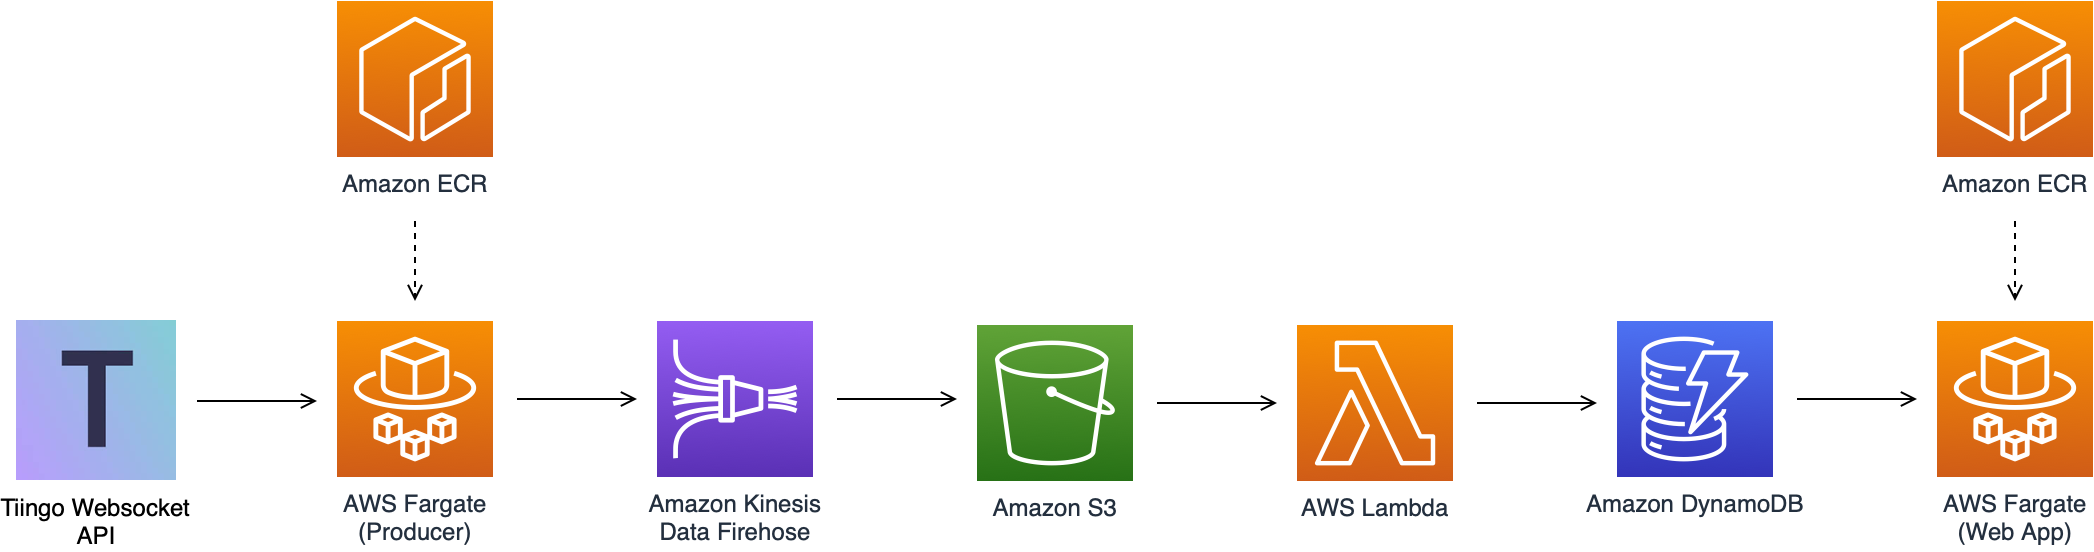
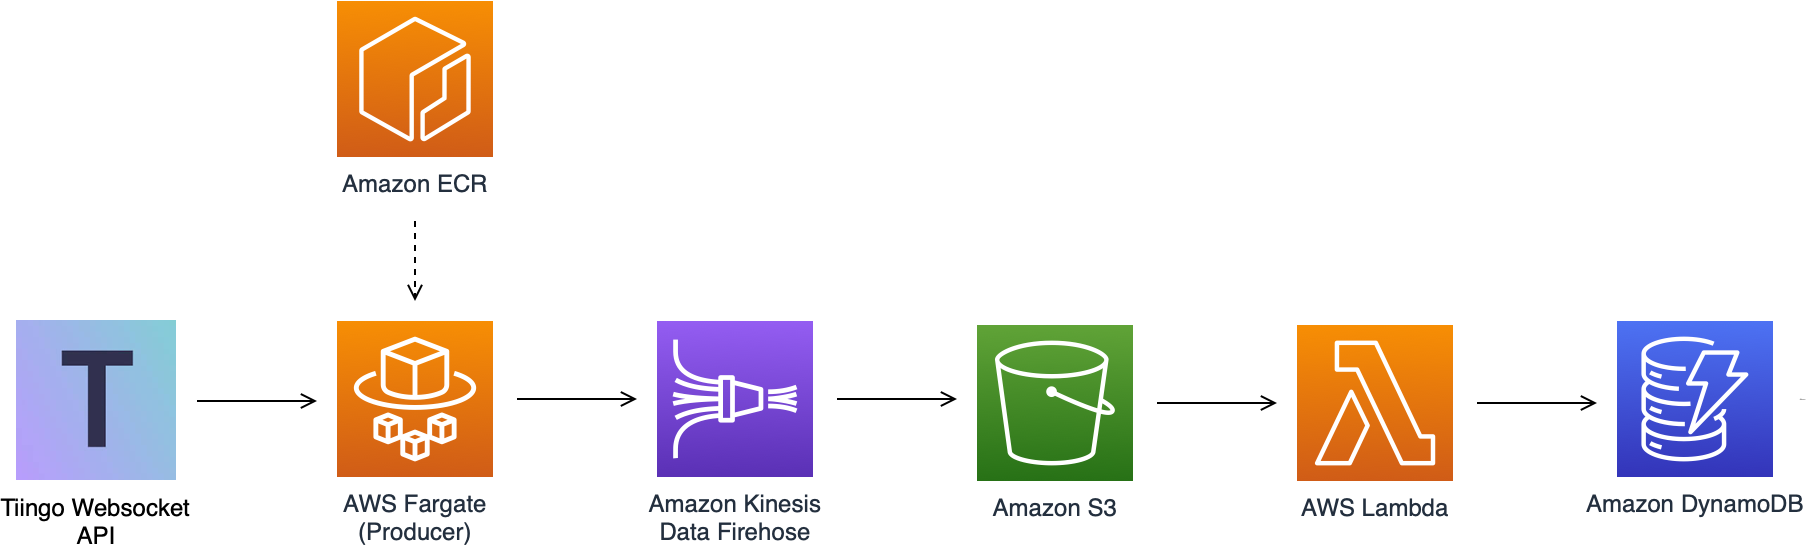
Update post.

diff --git a/site/app/content/posts/aws_crypto_streaming.md b/site/app/content/posts/aws_crypto_streaming.md
@@ -20,3 +20,22 @@ tags = [
 ## Overview
 
 Now, I make it no secret that I think crypto currencies possess none of the fundamental characteristics of real currencies and currently serve little purpose beyond acting as speculative (and extremely volatile), investments with no discernable underlying value. That being said, one thing that is very useful about crypto currencies is the wealth of (often free), real-time APIs that exist to stream crypto trading data and we're going to make use of one such API in this post to see how we can build a real-time streaming pipeline in AWS.
+
+## Tiingo API
+
+As I mentioned, there are various APIs that provide crypto data but a particularly good one (and the one we'll use here), is the [Tiingo crypto websocket API](https://api.tiingo.com/documentation/websockets/crypto). This API provides a real-time stream of crypto trades from a number of exchanges. If you're not familar with the difference between an HTTP-based API and a websocket API, then you can read more [here](https://ably.com/topic/websockets-vs-http) but the TLDR version is that a typical REST API is like asking your friend a question and them telling you the answer, whilst a websocket API is more like asking your friend to tell you every single thing that pops into their mind, as soon as it pops into their mind. Tiingo call their websocket API a firehose and that's a fairly good way to think about it; we're going open a persistent connection with the API and the API is going to spray trades at us as they occur.
+
+To use the Tiingo API, you need to sign up and obtain an API auth token that can be used during the subscription process. There are a few different [pricing tiers](https://api.tiingo.com/about/pricing) for the API, but we'll opt for the free plan (obviously), which gives us up to 5 GB of data per month; more than enough to build a pipeline with.
+
+## The Solution
+
+The solution itself is going to be fairly straightforward (and serverless, of course :information_desk_person: :nail_care:), and the diagram below shows what it's going to look like:
+
+!["Solution diagram."](/images/aws_crypto_streaming/solution_diagram.png)
+
+Roughly speaking:
+
+* A containerised Python application connects to the Tiingo API.
+* The application acts as a producer for a Kinesis Data Firehose Stream, pushing batches of trade update messages to the Stream.
+* When messages arrive at the Stream, they're funneled in their raw format into an Amazon S3 bucket.
+* Each new message batch written to S3 invokes a Lambda function which parses the batch and writes the messages to a DynamoDB table.
